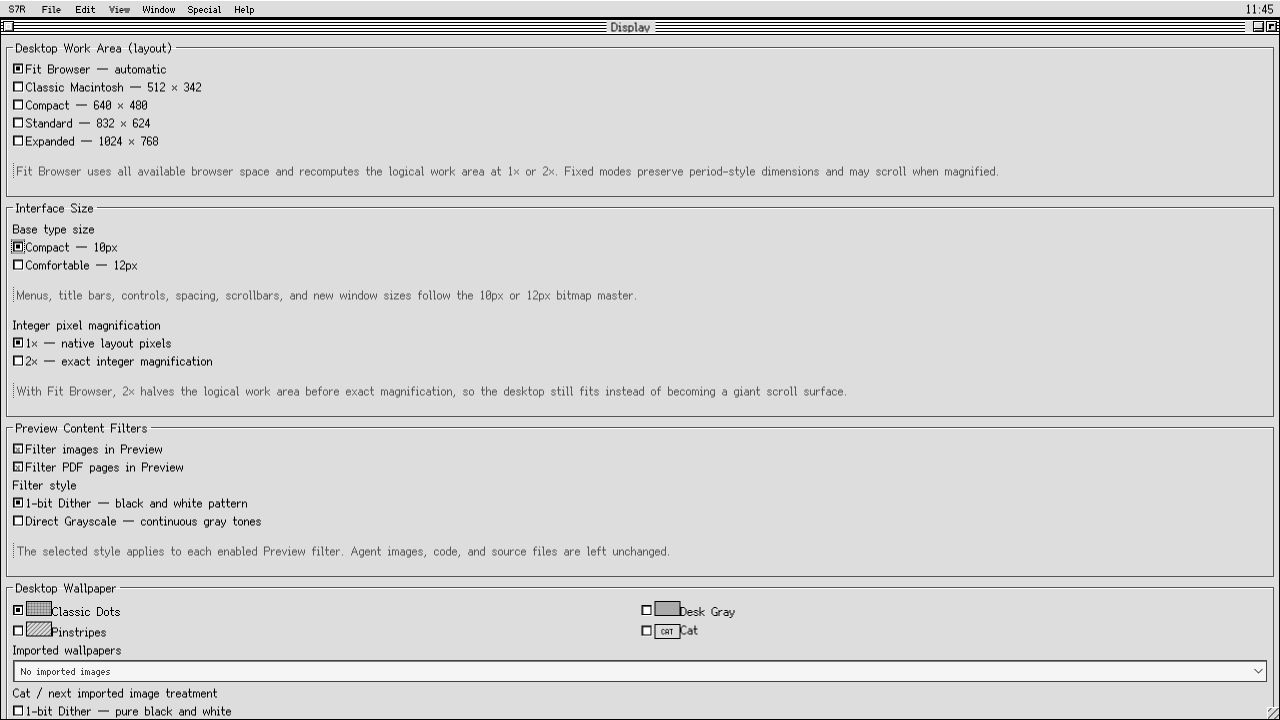
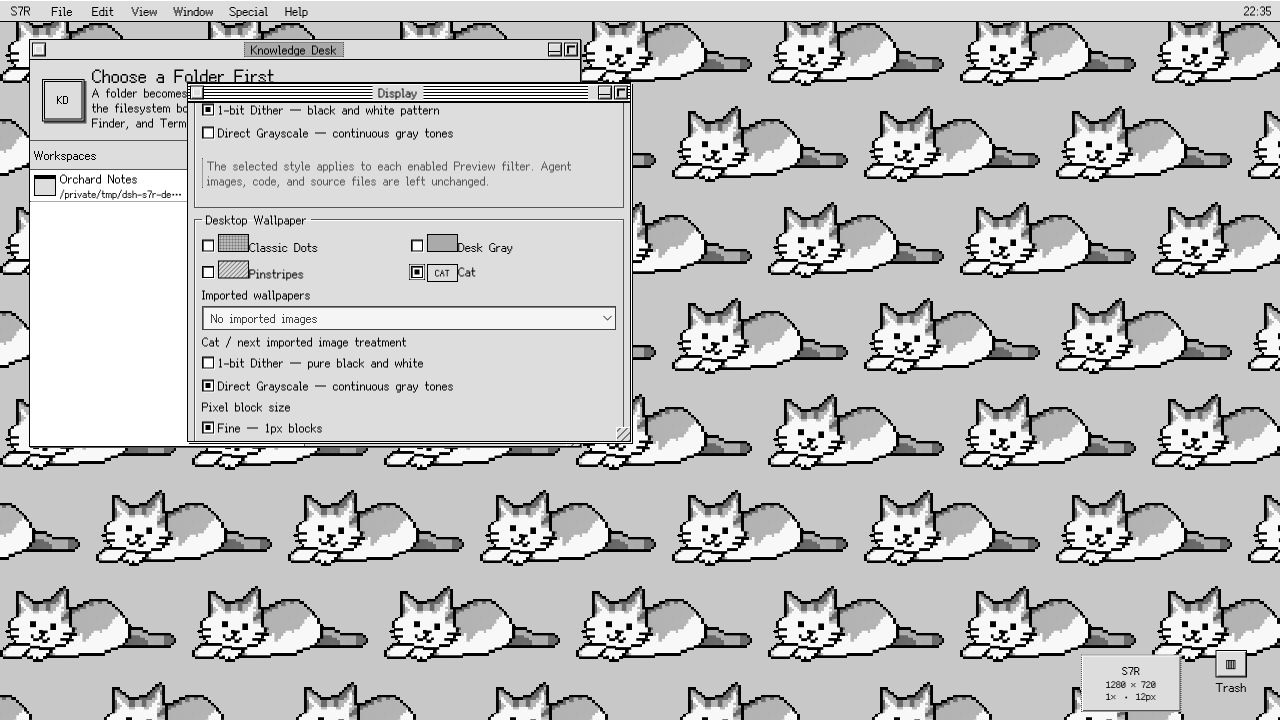
Improve README and screenshots

diff --git a/README.md b/README.md
@@ -5,27 +5,33 @@
 [![License: MIT](https://img.shields.io/badge/license-MIT-black.svg)](./LICENSE)
 [![DSH: 0.1.0-rc.7](https://img.shields.io/badge/DSH-0.1.0--rc.7-666.svg)](./COMPATIBILITY.md)
 
-S7R is an original System 7-era workstation shell for the [DeepSeek Harness](https://github.com/deepseek-ai/deepseek-harness) Web UI. It turns real DSH Agents, Workspaces, files, terminal sessions, tools, and persisted history into a coherent multi-window desktop instead of placing a retro skin over a chat page.
+S7R is an original System 7-era workstation shell for the [DeepSeek Harness](https://github.com/deepseek-ai/deepseek-harness) Web UI. It turns real DSH Agents, Workspaces, files, terminals, tools, and persisted history into a coherent multi-window desktop instead of placing a retro skin over a chat page.
 
 **S7R** is the desktop environment. **Knowledge Desk** is its Workspace, Agent, and conversation application.
 
-![S7R desktop with Knowledge Desk, Monitor, and desk accessories](./docs/screenshots/s7r-desktop.png)
+![A naturally arranged S7R desktop with Knowledge Desk, Monitor, Clock, and Trash](./docs/screenshots/s7r-desktop.png)
+
+DSH remains the source of truth. S7R does not copy conversations into its own chat database, start an unrelated shell server, or expose arbitrary host paths. It presents the capabilities already owned by DSH and keeps only desktop preferences—window positions, aliases, display choices, Scrapbook cards, and similar UI state—in the browser.
 
 > [!IMPORTANT]
 > S7R currently targets DSH `0.1.0-rc.7` exactly. DSH is in developer preview and later releases may require adapter updates. See [Compatibility](#compatibility-and-known-limitations).
 
-## Highlights
+## Feature map
 
-- Real DSH Agent streaming, reasoning, tools, attachments, history, steering, cancellation, and persisted sessions
-- Native Workspace folder selection and a Finder/TextEdit/Preview workflow contained to that Workspace
-- Real owner-scoped `/bin/zsh` Terminal with retained low-latency output
-- Timeline folding, system/background Monitor, context pressure inspection, compaction, and summarized Agent handoff
-- Agent search, rename, export, reversible archive/restore, completion notifications, and optional safe Markdown rendering
-- Global Find across file names, source contents, conversation messages, or every persisted Agent event
-- Restorable multi-window desktop with draggable aliases, marquee multi-select, group movement, and alias-only Trash
-- Scrapbook, Clock, solvable 4×4 Puzzle, Display control panel, seamless Cat wallpaper, and imported wallpaper processing
-- Native 10px/12px Simplified Chinese bitmap fonts, exact 1×/2× magnification, grayscale depth, and hard pixel edges
-- Secure `DEEPSEEK_API_KEY` setup through DSH's write-only credential service
+| Area | What it does |
+| --- | --- |
+| **Workspaces** | Registers a real folder with DSH, remembers recent folders, and uses the selected Workspace as the filesystem boundary for Agents, Finder, Preview, TextEdit, Terminal, and Find. |
+| **Knowledge Desk** | Lists Workspaces and Agents together; searches names, paths, and IDs; creates and reopens Agents; renames, exports, archives, restores, or places them on the desktop. |
+| **Agent windows** | Streams real DSH output and reasoning, shows tools and attachments, accepts steering/cancellation, reloads persisted history, and optionally renders completed Markdown safely. |
+| **Context and Timeline** | Shows provider-reported context length and pressure, estimates content shares, requests compaction or a summary-carrying successor, and exposes the complete event stream with adjacent chunks folded into runs. |
+| **Files** | Provides Workspace-contained Finder, conflict-aware plain-text editing, image/PDF Preview, and portable path drops into Agents. Host paths are validated again on every request. |
+| **Terminal** | Opens an owner-scoped DSH terminal running `/bin/zsh -f -i`, even when no Agent window is open, with retained low-latency output and visible command acknowledgement. |
+| **Find** | Searches file/folder names, source contents, visible messages, or all persisted Agent events as independent scopes, then opens the matching file, Agent, or Timeline location. |
+| **Monitor and notices** | Combines live Agent state, background jobs, context pressure, host CPU/active RAM, and DSH process RSS; minimal notices appear when an Agent completes. |
+| **Desktop** | Restores window geometry and z-order; supports Workspace, Agent, Finder-item, and Scrapbook aliases; marquee selection; group dragging; and reversible alias-only Trash. |
+| **Scrapbook and accessories** | Captures editable conversation cards with one-click copy and desktop placement; includes Clock and a legally shuffled, always-solvable 4×4 Puzzle. |
+| **Display and wallpaper** | Offers Fit Browser or fixed logical work areas, 10px/12px bitmap UI masters, exact 1×/2× magnification, Preview filters, built-in patterns, a seamless Cat tile, and processed imported wallpaper. |
+| **Credentials** | Reads only DSH's configured/source/writable status and writes `DEEPSEEK_API_KEY` through DSH's loopback credential service; the saved secret is never returned to the page. |
 
 ## Requirements
 
@@ -88,27 +94,35 @@ Browser-owned shortcuts such as Command-N and Command-W are intentionally not ad
 
 ## Knowledge Desk and Agents
 
-Knowledge Desk is both a Workspace launcher and an Agent browser. It searches by Agent name, Workspace path, or ID; restores S7R-archived conversations; and connects windows to the real DSH `SessionRuntime` rather than duplicating chat state.
+Knowledge Desk is both a Workspace launcher and an Agent browser. Its Workspace side selects the folder that new work belongs to; its Agent side searches and manages the conversations already associated with that folder. Opening an existing result reconnects a window to the real DSH `SessionRuntime` rather than creating a second chat record.
 
-![Agent conversation with Context, Timeline, and Other controls](./docs/screenshots/s7r-agent.png)
+![An Agent conversation overlapping Knowledge Desk with the Context Inspector expanded](./docs/screenshots/s7r-agent.png)
+
+The Agent lifecycle is deliberately explicit:
+
+1. **New Agent** starts in the selected Workspace. Closing its window only closes the view.
+2. **Open** returns to the same persisted DSH session, including its historical events.
+3. **Rename** changes the human-facing title without changing the session ID.
+4. **Export** produces a complete Markdown transcript plus a machine-readable JSON event archive.
+5. **Archive** hides the Agent in S7R without deleting its DSH log; the Archived view can restore it.
+6. **Desktop** creates a reopenable alias. Removing that alias does not archive or delete the Agent.
 
 Every Agent window keeps a compact single-line toolbar:
 
-- **Context** opens provider-reported token length/percentage when available, estimated shares for user/assistant/reasoning/tools/Workspace material, 75%/90% warnings, **Compact Now**, and **New Agent with Current Summary**.
+- **Context** opens provider-reported token length/percentage when available, estimated shares for user/assistant/reasoning/tools/Workspace material, 75%/90% warnings, **Compact Now**, and **New Agent with Current Summary**. Shares are character-based diagnostics, not fake token accounting.
 - **Timeline** opens the complete live or cold persisted event ledger. Adjacent same-type events such as `assistant/chunk` fold into expandable runs.
 - **Other…** provides rename, complete Markdown/JSON export, reversible archive, desktop placement, and a persistent Markdown-rendering toggle.
 
-Completed output can safely render headings, emphasis, inline/fenced code, lists, quotes, and tables. Streaming stays plain text, raw HTML is never injected, and LaTeX stays source text. Color Emoji are normalized to monochrome pixel-font symbols or short text without changing stored conversation data.
+Completed output can safely render headings, emphasis, inline/fenced code, lists, quotes, and tables. Streaming remains plain text until the message is complete, raw HTML is never injected, and LaTeX remains source text. The rendering switch is per browser profile and never rewrites stored conversation data. Color Emoji are displayed as monochrome pixel-font symbols or short text for visual consistency.
 
 ## Workspaces, Finder, TextEdit, and Preview
 
-Finder reads the selected session's canonical Workspace through DSH. Every host path is resolved again and rejected if it escapes that root.
+Choosing a folder uses DSH's native picker and registers that external directory as a Workspace; S7R is not limited to the folder from which the Web UI was launched. The most recently used valid Workspace can be reopened on the next visit. Finder then reads the selected session's canonical root through DSH, and every host path is resolved again and rejected if it escapes that root.
 
-- Double-click folders to navigate.
-- Text and source files open in TextEdit.
-- Images and PDFs open in Preview.
-- TextEdit saves use the last-read filesystem version and surface concurrent changes instead of overwriting them silently.
-- Preview has page, zoom, fit, and temporary **Inspect Original** controls.
+- Double-click a directory to navigate; **Open in Terminal** starts zsh at that directory.
+- Text and source files open in TextEdit. Saves carry the last-read filesystem version so an external edit is reported as a conflict instead of being silently overwritten.
+- Images and PDFs open in Preview. PDFs are rasterized locally with PDF.js; page, zoom, fit, and temporary **Inspect Original** controls do not alter the file.
+- Drag a Finder item onto the desktop to create an alias, or into an Agent to insert its path. Paths inside the Agent's Workspace become `./relative/path`; outside paths remain absolute.
 
 Display can filter Preview images and PDF pages through either ordered 1-bit black/white dithering or direct luminance grayscale. Filtering is cached, non-destructive, and never rewrites the source file.
 
@@ -116,7 +130,7 @@ Display can filter Preview images and PDF pages through either ordered 1-bit bla
 
 Terminal uses the official DSH terminal service and shell backend with `/bin/zsh -f -i`. DSH owns process spawning, sandbox policy, scrollback, signaling, terminal identity, and Agent ownership. S7R acknowledges submitted lines immediately and polls retained foreground output without overlapping reads.
 
-When no Agent is active, S7R creates a fresh blank live owner in the current/recent Workspace rather than requiring a visible Agent window.
+**File → New Terminal** works independently of visible Agent and Finder windows. When no live owner exists, S7R creates a fresh blank owner in the current/recent Workspace, so the terminal does not fail with a missing Knowledge Desk session. **Open in Terminal** from Finder starts at the displayed directory.
 
 DSH rc.7 is line-oriented: it does not expose a raw browser keystroke stream or post-spawn PTY resizing. Terminal therefore behaves like a responsive real line console, not an xterm-style raw attachment.
 
@@ -124,30 +138,26 @@ DSH rc.7 is line-oriented: it does not expose a raw browser keystroke stream or 
 
 **File → Find…** has independent search depths:
 
-- file and folder names;
-- source/text contents;
-- visible conversation messages;
-- every persisted event, including tools, reasoning, and context records.
+- **Names** — file and folder names only; useful for navigation without reading file contents.
+- **Source contents** — text/code inside the active Workspace, with hidden directories and `node_modules` skipped.
+- **Conversation messages** — visible user and assistant messages across persisted Agents.
+- **All Agent events** — the complete cold event stream, including tools, reasoning, chunks, and context records.
 
 Matches route to Finder/TextEdit/Preview, the Agent, or the exact Timeline event. Traversal stops at 5,000 files, skips hidden and `node_modules` directories, reads at most 1 MiB per source file, and returns at most 200 results.
 
-![Monitor with live Agents, background work, context, CPU, and memory](./docs/screenshots/s7r-monitor.png)
-
 Monitor combines:
 
-- live Agent state and model;
-- DSH background jobs;
-- latest provider-reported context pressure;
-- host-wide CPU and active RAM;
-- DSH process RSS.
+- **Agents** — live status (`RUNNING`, `IDLE`, or terminal state), model, latest event time, and provider-reported context pressure.
+- **Background** — DSH jobs that may continue after an Agent window is closed.
+- **System** — host-wide CPU and active RAM, plus DSH process RSS so process memory is not confused with whole-machine pressure.
 
-On macOS, inactive/file-cache pages are excluded from active RAM so reusable cache does not appear as application pressure. Minimal desktop notices appear only when an Agent crosses into a completed state; selecting one opens that Agent.
+On macOS, inactive/file-cache pages are excluded from active RAM so reusable cache does not appear as application pressure. Minimal desktop notices appear only when an Agent crosses into a completed state; selecting one opens that Agent. Monitor is visible in the desktop overview above rather than presented as an isolated full-screen panel.
 
 ## Desktop workflow
 
 Window bounds, z-order, zoom/collapse state, desktop aliases, reversible Agent archives, Trash, and Markdown preference survive reload. Terminal windows are the intentional exception because serialized windows cannot safely reattach live owner-scoped PTYs.
 
-Workspaces, Agents, Finder items, and individual Scrapbook cards can become desktop objects. Drag empty desktop space to marquee-select several aliases and drag any selected alias to move the group.
+Workspaces, Agents, Finder items, and individual Scrapbook cards can become desktop objects. Drag empty desktop space to marquee-select several aliases; then drag any selected item to move the group while preserving its layout. Opening an alias routes to its real object rather than a browser-local copy.
 
 Folders have two explicit desktop meanings:
 
@@ -160,7 +170,7 @@ Paths dropped into an Agent become portable `./relative/path` references when th
 
 ## Scrapbook and desk accessories
 
-Scrapbook stores browser-local editable cards with source references. Agent capture links retain a visited state, and each card has one-click copy. Individual cards can be placed on the desktop.
+**Add to Scrapbook** captures a message into a browser-local editable card while retaining its source Agent reference. The capture link immediately takes on a visited-style state as feedback, each card has one-click copy, and a single card can be placed on the desktop without opening the whole Scrapbook.
 
 Clock is a live analog/digital desk accessory. Puzzle is an original 4×4 sliding-number implementation; shuffling performs only legal moves, so every generated board is solvable.
 
@@ -168,24 +178,25 @@ System applications and preferences live in their workflow menus. Clock and Puzz
 
 ## Display and wallpaper
 
-![Display control panel with logical resolution and wallpaper controls](./docs/screenshots/s7r-display.png)
+![Display controls overlapping Knowledge Desk on the seamless grayscale Cat wallpaper](./docs/screenshots/s7r-display.png)
 
 Display separates four concerns:
 
-- **Logical work area:** Fit Browser, Classic 512×342, Compact 640×480, Standard 832×624, or Expanded 1024×768
-- **Interface size:** Compact 10px or Comfortable 12px, each with matching discrete control/window metrics
-- **Pixel magnification:** exact 1× or 2× layout magnification with inverse pointer mapping
-- **Content filters:** optional Preview image/PDF processing in 1-bit or grayscale
+- **Logical work area:** **Fit Browser** recomputes the usable desktop from the current viewport; Classic 512×342, Compact 640×480, Standard 832×624, and Expanded 1024×768 preserve fixed period-style work areas.
+- **Interface size:** Compact 10px and Comfortable 12px are separate bitmap masters. Menus, title bars, controls, spacing, scrollbars, and default window sizes all change together instead of merely enlarging text.
+- **Pixel magnification:** 1× or exact 2× integer layout magnification. Fit Browser halves the logical work area at 2× before magnifying it, and pointer deltas are mapped back to logical coordinates.
+- **Content filters:** Preview images and rasterized PDF pages can independently use ordered 1-bit black/white dithering or direct grayscale. Conversation images and source files are left unchanged.
 
-Classic Dots is the default wallpaper. Desk Gray, Pinstripes, seamless Cat, and imported images are also available. Cat and imports are sampled onto a genuine low-resolution grid, filtered, and baked into an integer nearest-neighbor PNG. Imports accumulate in a named library and can tile at native pixel size or fill the desktop. The source image is not retained after processing.
-
-![Preview filters and pixel-processed wallpaper controls](./docs/screenshots/s7r-wallpaper.png)
+Classic Dots is the default wallpaper. Desk Gray, Pinstripes, seamless Cat, and imported images are also available. Cat and imports are sampled onto a genuine low-resolution grid, filtered, and baked into an integer nearest-neighbor PNG. Imports accumulate in a named dropdown library and can tile at pixel size or fill the desktop. Re-rendering offers 1px or 2px blocks; the original imported file is not retained after processing.
 
 ## Persistence and data ownership
 
-S7R stores versioned browser-local records for display preferences, imported wallpaper, Scrapbook cards, window/desktop state, reversible archives, Trash, and Markdown preference. Malformed records fail closed and known older formats migrate explicitly.
+| Owner | Data |
+| --- | --- |
+| **DSH** | Agents, conversation/event logs, Workspace registration, files, terminal owners/processes, tools, credentials, and background jobs. |
+| **S7R browser profile** | Display preferences, processed imported wallpaper, Scrapbook cards, window and desktop layout, alias Trash, reversible S7R archives, and Markdown preference. |
 
-DSH remains authoritative for Agents, conversations, Workspace registration, files, terminal ownership, tools, and background jobs. Closing an Agent window never deletes its DSH session.
+Browser-local records are versioned; malformed records fail closed and known older formats migrate explicitly. Closing an Agent window never deletes its DSH session. Clearing browser site data resets S7R's local desktop customizations but does not delete DSH conversations or Workspace files.
 
 ## Security model
 
